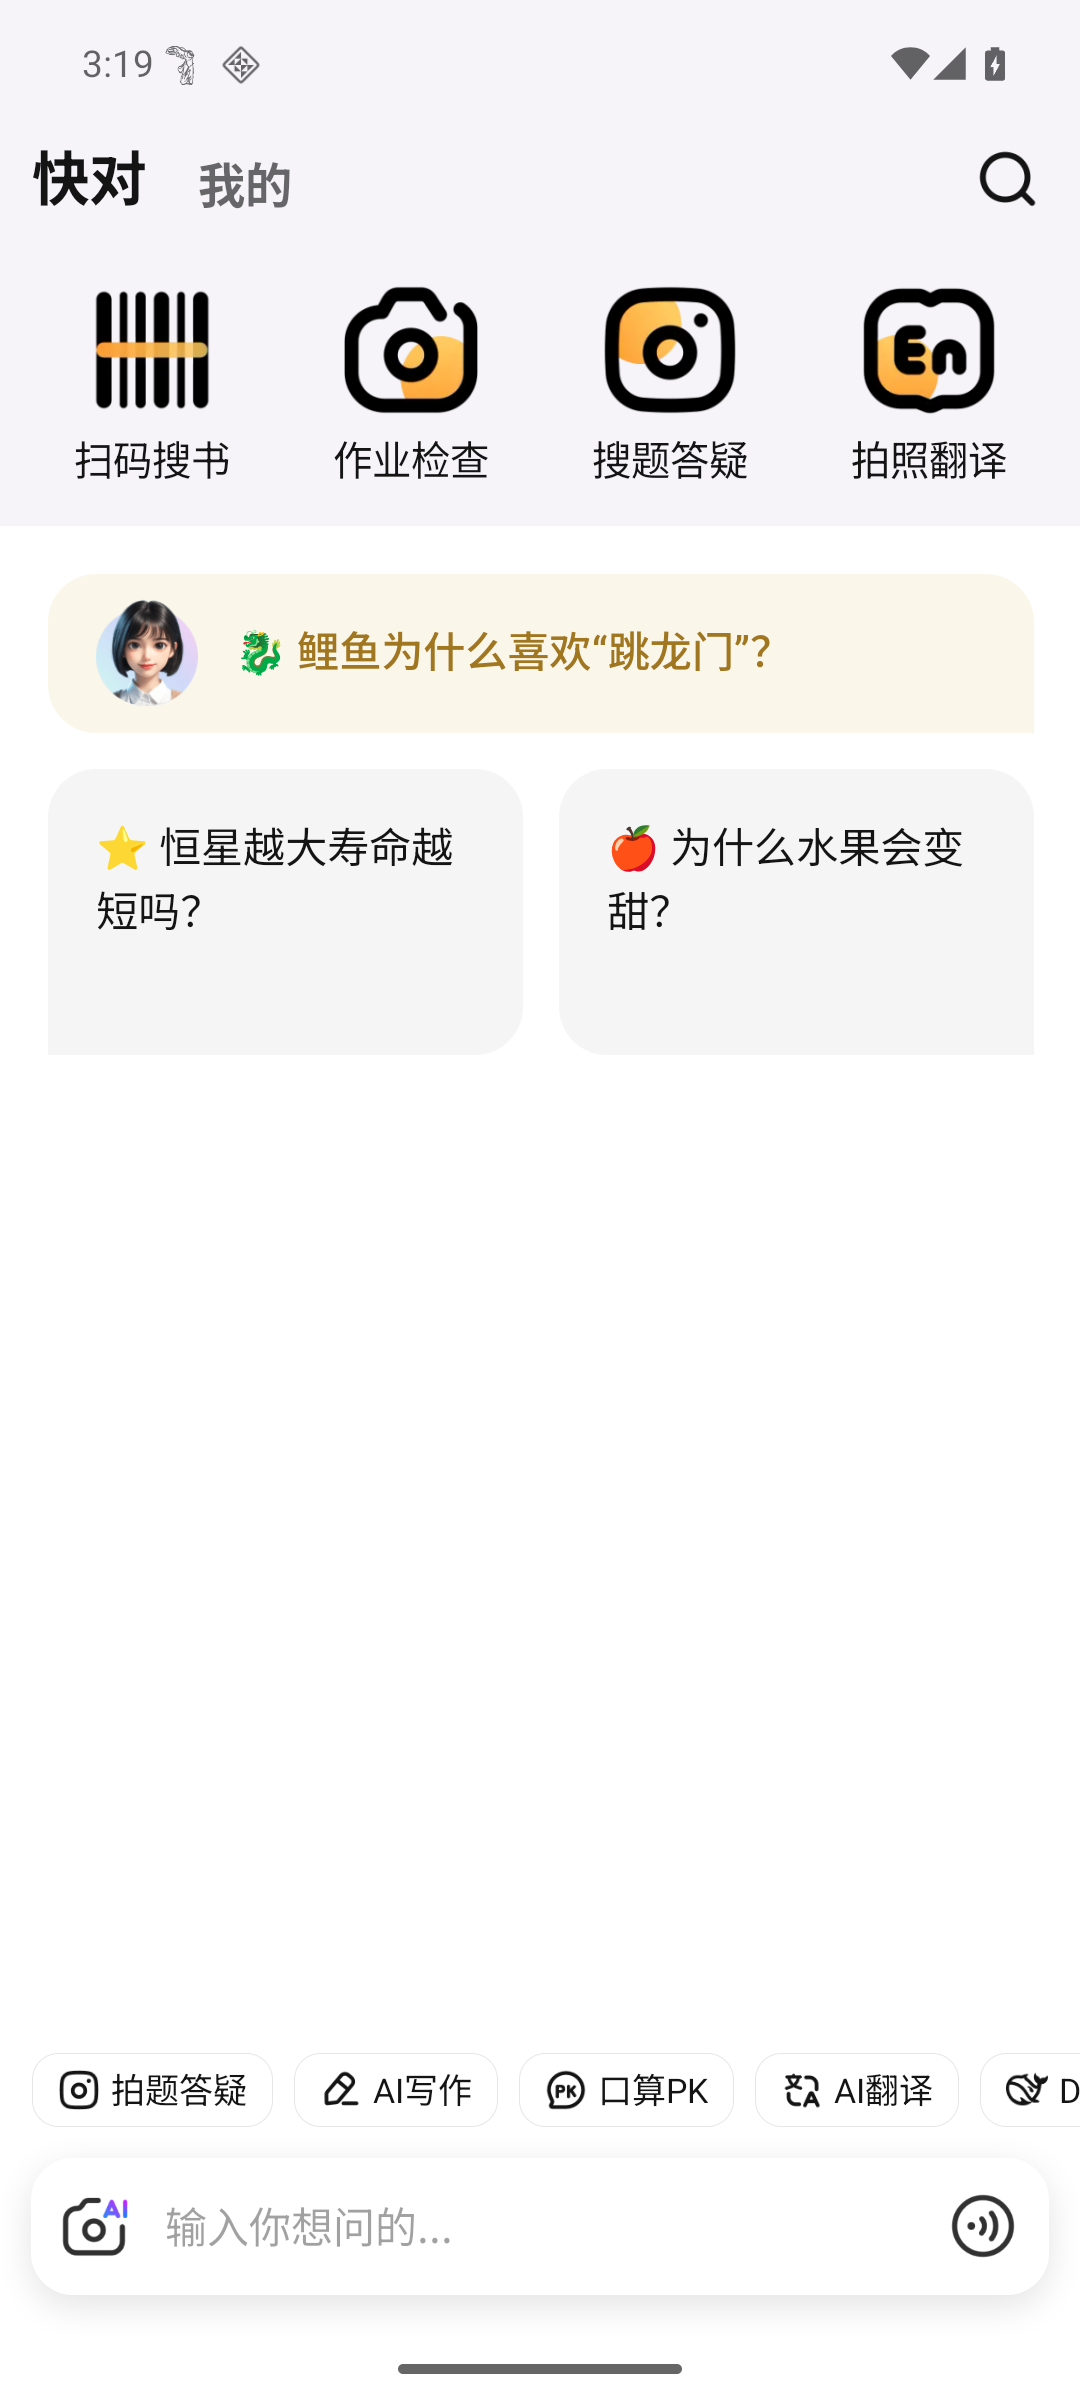
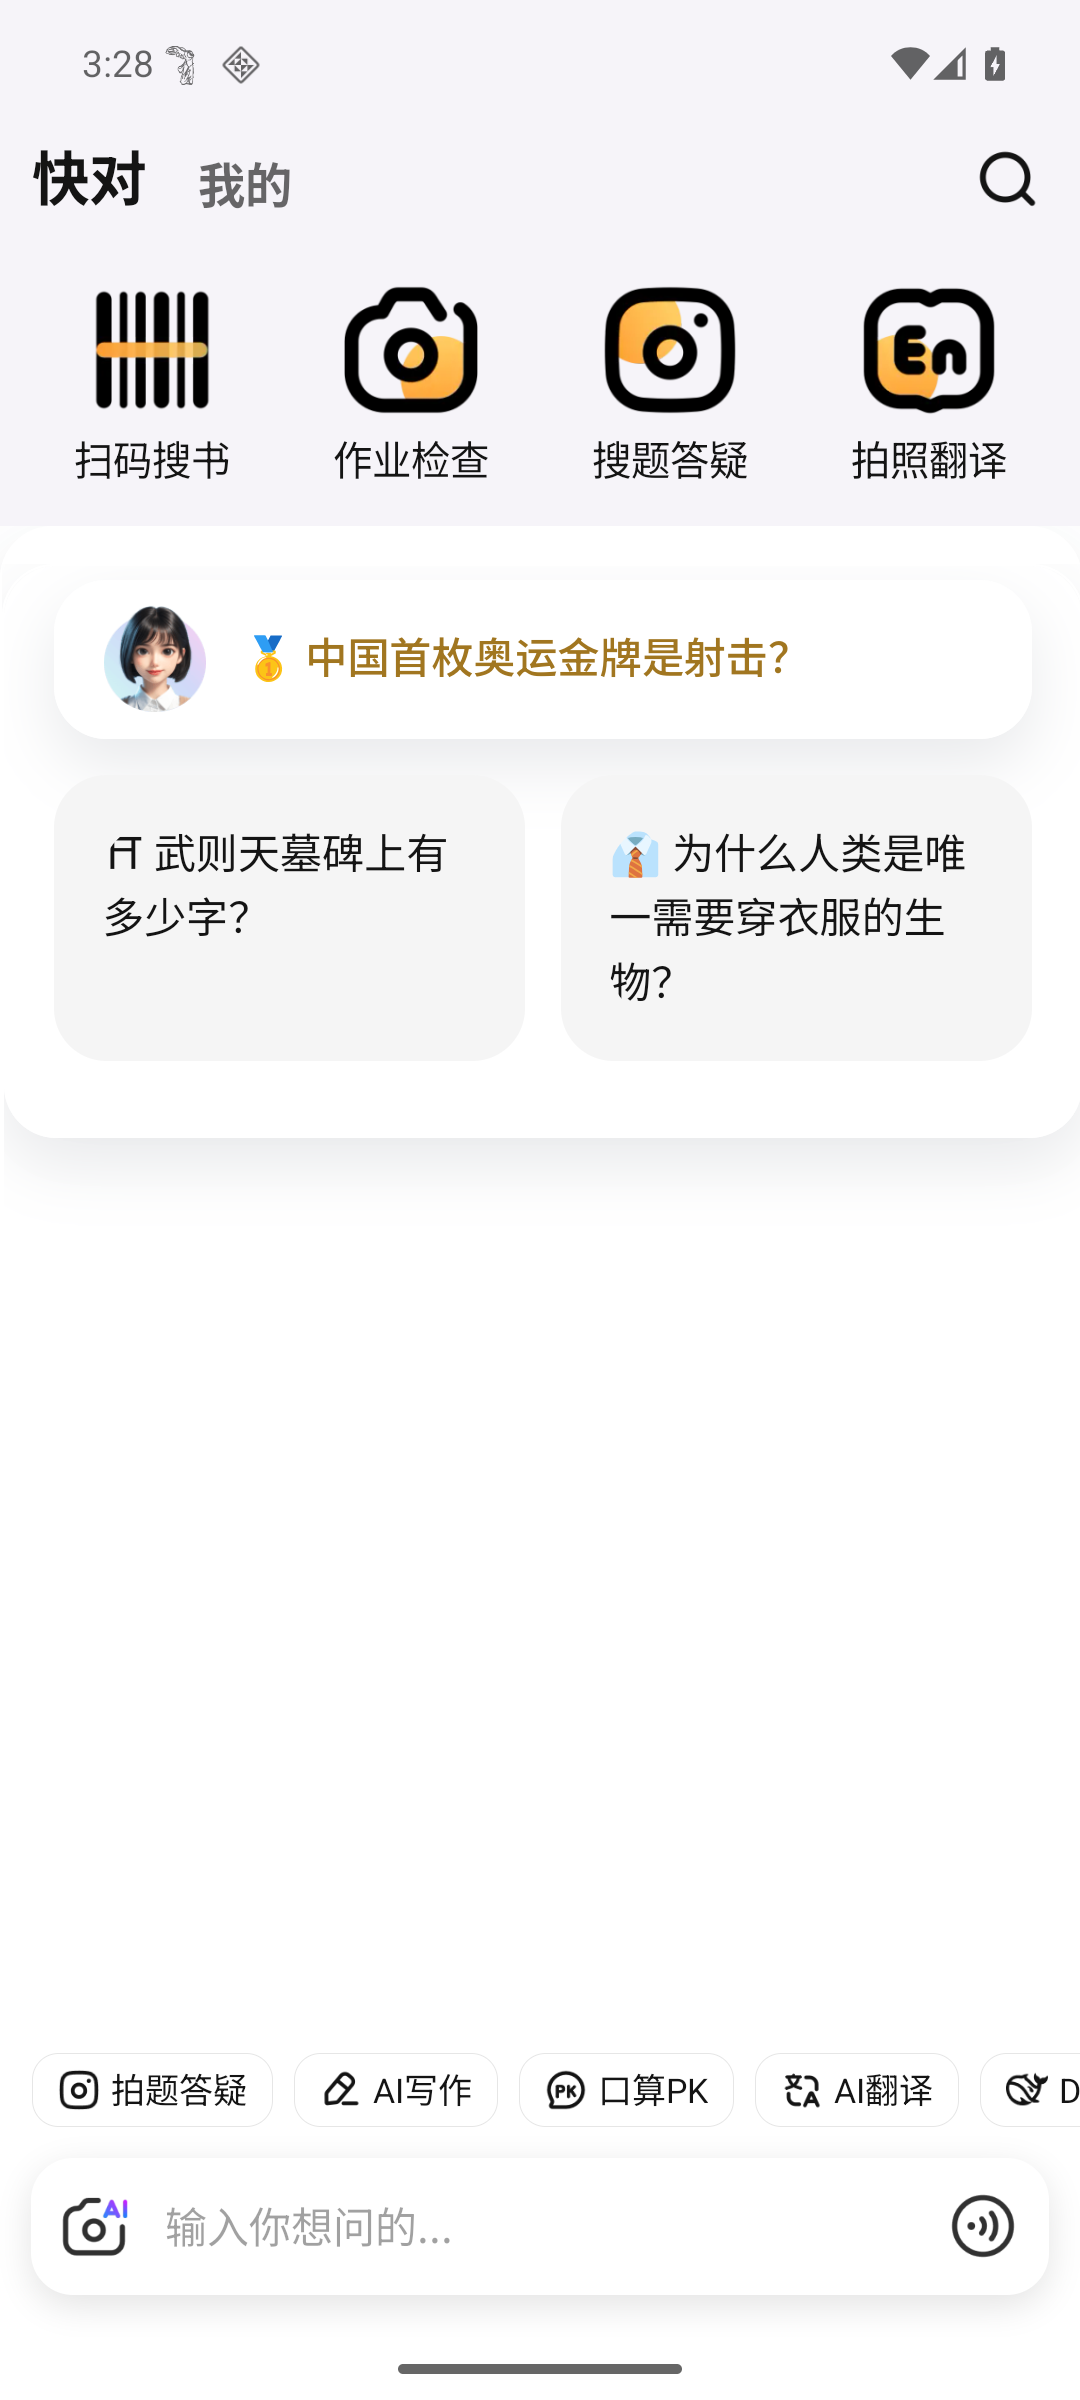
feat: 设置入口回归列表行（MutationObserver 常驻重插）+ 首页玻璃化
- SettingsEntry：从悬浮胶囊改回设置列表里的一行，用 MutationObserver 对抗 Vue 重建
- Md3Skin：新增 GLASSIFY_JS（按面积+亮度扫描，把亮色大块变成半透明玻璃卡 + 高光边 + 阴影）
- 移除 backdrop-filter（WebView 白屏根因），玻璃感靠叠色与描边

diff --git a/module/app/src/main/java/dev/xalor/kdkit/features/host/SettingsEntry.kt b/module/app/src/main/java/dev/xalor/kdkit/features/host/SettingsEntry.kt
@@ -150,6 +150,7 @@ object SettingsEntry : SwitchFeature(
     private fun script(): String = """
         (function () {
           if (window.__kdkit_settings_entry) { return; }
+          window.__kdkit_settings_entry = 1;
           var ROW_ID = 'kdkit-settings-row';
           var LABEL = '$ROW_LABEL';
           var MARKS = ['第三方信息共享清单', '个人信息收集清单', '撤回同意隐私政策',
@@ -161,52 +162,66 @@ object SettingsEntry : SwitchFeature(
             for (var i = 0; i < MARKS.length; i++) { if (txt.indexOf(MARKS[i]) >= 0) { hits++; } }
             return hits >= 2;
           }
-          /**
-           * 固定在右下角的胶囊按钮 —— 不再 clone 列表行。
-           *
-           * 为什么改（2026-11-14 真机）：clone 出来的行会被 Vue 的 diff 重建冲掉，
-           * 有时在、有时不在，点击热区也随列表滚动变化（同一个坐标两次点击落到不同行）。
-           * 挂在 body 上、position:fixed 的按钮不受页面重渲染影响，点击面积也固定。
-           */
+          function leafByText(t) {
+            var all = document.getElementsByTagName('*');
+            for (var i = 0; i < all.length; i++) {
+              var el = all[i];
+              if (el.children.length > 2) { continue; }
+              if (norm(el.textContent) === t) { return el; }
+            }
+            return null;
+          }
+          /** 复制相邻设置行（同一套 class / 内边距 / 右侧箭头），只把文字换掉。 */
           function insert() {
             if (document.getElementById(ROW_ID)) { return true; }
             if (!isSettingsPage()) { return false; }
-            var btn = document.createElement('div');
-            btn.id = ROW_ID;
-            btn.textContent = LABEL;
-            btn.style.cssText = [
-              'position:fixed', 'right:16px', 'bottom:104px', 'z-index:2147483000',
-              'padding:12px 18px', 'border-radius:22px', 'color:#fff',
-              'background:linear-gradient(135deg,#5B6BC0,#7C6BE0)',
-              'box-shadow:0 8px 22px rgba(20,24,40,.28)', 'font:500 14px/1.2 sans-serif',
-              'letter-spacing:.02em', 'cursor:pointer', 'user-select:none',
-              'backdrop-filter:blur(10px)', '-webkit-backdrop-filter:blur(10px)'
-            ].join(';');
-            btn.addEventListener('click', function (e) {
-              e.preventDefault();
-              e.stopPropagation();
+            var anchor = null;
+            for (var i = 0; i < MARKS.length && !anchor; i++) { anchor = leafByText(MARKS[i]); }
+            if (!anchor) { return false; }
+            var row = anchor;
+            while (row.parentNode && norm(row.parentNode.textContent) === norm(anchor.textContent)) {
+              row = row.parentNode;
+            }
+            var mine = row.cloneNode(true);
+            mine.id = ROW_ID;
+            mine.style.cursor = 'pointer';
+            var nodes = [];
+            var walker = document.createTreeWalker(mine, NodeFilter.SHOW_TEXT, null, false);
+            while (walker.nextNode()) { nodes.push(walker.currentNode); }
+            var replaced = false;
+            for (var i = 0; i < nodes.length; i++) {
+              if (norm(nodes[i].nodeValue) === norm(anchor.textContent)) {
+                nodes[i].nodeValue = LABEL; replaced = true; break;
+              }
+            }
+            if (!replaced) { mine.insertBefore(document.createTextNode(LABEL), mine.firstChild); }
+            // Vue 会重建 DOM，所以用 pointerdown + click 双绑（capture 阶段，先于框架处理）
+            var go = function (e) {
+              e.preventDefault(); e.stopPropagation();
               location.href = '$SCHEME';
-            }, true);
-            (document.body || document.documentElement).appendChild(btn);
-            console.log('[KdKit] settings-entry button inserted');
+            };
+            mine.addEventListener('pointerdown', go, true);
+            mine.addEventListener('click', go, true);
+            if (row.parentNode) { row.parentNode.insertBefore(mine, row.nextSibling); }
             return true;
           }
-          var tries = 0;
-          function tick() {
-            tries++;
-            insert();
-            if (tries < 40) { setTimeout(tick, 700); }
-          }
-          function start() {
-            if (window.__kdkit_settings_entry) { return; }
+          /**
+           * 常驻重插（2026-11-14）：以前用 30 次定时器，Vue 一旦 diff 重建行就永久消失。
+           * 现在挂 MutationObserver：行不在了就补回来，且只在设置页里动作。
+           */
+          function keep() {
             if (!isSettingsPage()) { return; }
-            window.__kdkit_settings_entry = true;
-            console.log('[KdKit] settings-entry: settings page detected');
-            tick();
+            insert();
           }
-          setTimeout(start, 400);
-          setTimeout(start, 1500);
-          setTimeout(start, 4000);
+          var t = 0;
+          function boot() { keep(); if (t++ < 20) { setTimeout(boot, 400); } }
+          boot();
+          try {
+            new MutationObserver(function () { keep(); })
+              .observe(document.documentElement, { childList: true, subtree: true });
+          } catch (e) {}
+          setTimeout(keep, 1200);
+          setTimeout(keep, 3000);
         })();
     """.trimIndent()
 }

diff --git a/module/app/src/main/java/dev/xalor/kdkit/features/web/Md3Skin.kt b/module/app/src/main/java/dev/xalor/kdkit/features/web/Md3Skin.kt
@@ -244,8 +244,8 @@ object Md3Skin : SwitchFeature(
             if (glass) {
                 append("    [class*=\"card\"],[class*=\"Card\"],[class*=\"panel\"],[class*=\"Panel\"],")
                 append("[class*=\"item\"],[class*=\"Item\"]{background:").append(glassFill).append("!important;")
-                append("backdrop-filter:blur(16px) saturate(1.25)!important;")
-                append("-webkit-backdrop-filter:blur(16px) saturate(1.25)!important;")
+                append("border-radius:20px!important;")
+                append("box-shadow:inset 0 1px 0 ").append(glassBorder).append("!important;")
                 append("border:1px solid ").append(glassBorder).append("!important;")
                 append("box-shadow:").append(glassShadow).append("!important;}\n")
             }
@@ -254,10 +254,58 @@ object Md3Skin : SwitchFeature(
             append(if (full) "full" else "light").append("');\n")
             if (dark) append(DARK_INVERT_CSS)
             if (full && !dark) append(NORMALISE_JS)
+            if (glass) append(GLASSIFY_JS)
             append(REVERT_IF_BLANK_JS)
             append("})();\n")
         }
     }
+
+    /**
+     * 玻璃化：把页面上"亮色大块"（面积 ≥ 2 万 px²、亮度 > 232）当场换成玻璃卡 ——
+     * 半透明填充 + 1px 高光描边 + 顶部内高光 + 柔和外阴影 + 20px 圆角。
+     *
+     * 为什么用 JS 而不是纯 CSS 选择器：快对的 H5 类名是构建期哈希，`[class*="card"]`
+     * 命中不了几张卡；只有按"面积 + 颜色的统计特征"扫才通用。
+     * 不用 `backdrop-filter`：WebView 上它会让整页白屏（真机踩过），玻璃感靠叠色与描边表达。
+     */
+    private const val GLASSIFY_JS = """
+  (function(){
+    var DARK = document.documentElement.getAttribute('data-kdkit-dark') === '1';
+    var FILL = DARK ? 'rgba(30,33,44,.72)' : 'rgba(255,255,255,.72)';
+    var EDGE = DARK ? 'rgba(255,255,255,.14)' : 'rgba(255,255,255,.72)';
+    var SHADOW = DARK ? '0 10px 24px rgba(0,0,0,.45)' : '0 10px 24px rgba(31,36,58,.10)';
+    var DONE = 0;
+    function rgba(cs){
+      var m = /rgba?\(([0-9]+), ?([0-9]+), ?([0-9]+)(?:, ?([0-9.]+))?/.exec(cs.backgroundColor);
+      return m ? [+m[1], +m[2], +m[3], m[4] === undefined ? 1 : +m[4]] : null;
+    }
+    function glassify(){
+      var els = document.querySelectorAll('div, section, li');
+      for (var i = 0; i < els.length && DONE < 260; i++) {
+        var el = els[i];
+        if (el.__kdkit_glass) continue;
+        var r = el.getBoundingClientRect();
+        if (r.width * r.height < 20000) continue;
+        var txt = (el.innerText || '').trim();
+        if (txt.length > 400) continue;
+        var cs = getComputedStyle(el);
+        var c = rgba(cs);
+        if (!c) continue;
+        var lum = (c[0]*299 + c[1]*587 + c[2]*114) / 1000;
+        var isLight = lum > 232 && c[3] > 0.5;
+        var isDarkCard = DARK && lum < 70;
+        if (!isLight && !isDarkCard) continue;
+        el.style.setProperty('background', FILL, 'important');
+        el.style.setProperty('border', '1px solid ' + EDGE, 'important');
+        el.style.setProperty('border-radius', '20px', 'important');
+        el.style.setProperty('box-shadow', 'inset 0 1px 0 ' + EDGE + ', ' + SHADOW, 'important');
+        el.__kdkit_glass = 1; DONE++;
+      }
+    }
+    glassify();
+    setTimeout(glassify, 600); setTimeout(glassify, 1600); setTimeout(glassify, 3200);
+  })();
+"""
 
     /**
      * 白屏自愈：注入后 1.2s / 3s 各查一次，若页面被我们弄空了（没有可见文字、也没有图片/画布），
